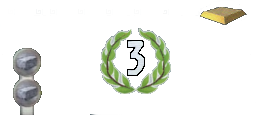
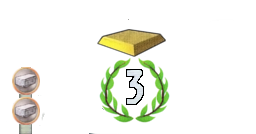
Changement étapes ALexandrie A

diff --git a/src/Frame.java b/src/Frame.java
@@ -242,7 +242,7 @@ public class Frame extends JFrame{
 			Step step = wonder.getStep()[i];
 			StepArea stepArea = new StepArea(step);
 			stepArea.setBackground(new Color(0, 0, 0, 0));
-			stepArea.setPreferredSize(new Dimension(256, 115));
+			stepArea.setPreferredSize(new Dimension(256, 134));
 			stepAreas.add(stepArea);
 		}
 		return stepAreas;
@@ -262,27 +262,27 @@ public class Frame extends JFrame{
 			}else{
 				step.setBackground(new Color(0, 150, 0, 0));
 			}
-			step.setPreferredSize(new Dimension(256, 115));
+			step.setPreferredSize(new Dimension(256, 134));
 
 			StepInstructionLabel l = new StepInstructionLabel(s.getStep().toString());
 			l.setForeground(Color.WHITE);
-			s.setBounds(0, 0, 256, 115);
+			s.setBounds(0, 0, 256, 134);
 			step.add(s);
-			l.setBounds(0, 125, 256, 0);
+			l.setBounds(0, 144, 256, 0);
 			Border b = l.getBorder();
 			Border marginLeft = new EmptyBorder(0, 15, 0, 0);
 			l.setBorder(new CompoundBorder(b, marginLeft));
 			step.add(l);
-			int y = frame.getHeight()-145;
+			int y = frame.getHeight()-163;
 			switch (nbSteps){
 			case 2:
-				step.setBounds(291+390*i, y, 256, 115);
+				step.setBounds(291+390*i, y, 256, 134);
 				break;
 			case 3:
-				step.setBounds(192+348*i, y, 256, 115);
+				step.setBounds(192+348*i, y, 256, 134);
 				break;
 			case 4:
-				step.setBounds(92+298*i, y, 256, 115);
+				step.setBounds(92+298*i, y, 256, 134);
 				break;
 			}
 			step.setPreferredSize(new Dimension(256, 245));

diff --git a/src/Capacity.java b/src/Capacity.java
@@ -16,7 +16,7 @@ public enum Capacity {
 	RAPPORTE_1_VICTOIRE_VERT_VOISINS,
 	RAPPORTE_1_VICTOIRE_ROUGE_VOISINS,
 	RAPPORTE_2_VICTOIRE_GRIS_VOISINS,
-	RAPPORTE_3_PIECE_1_VICTOIRE_ETAPE,
+	RAPPORTE_3_PIECE_1_VICTOIRE_ETAPE, // Codée pour les pieces
 	RAPPORTE_1_VICTOIRE_ETAPE_JOUEUR_ET_VOISINS,
 	CONSTRUCTION_GRATUITE_1_PAR_AGE,
 	JOUER_DERNIERE_CARTE_AGE,
